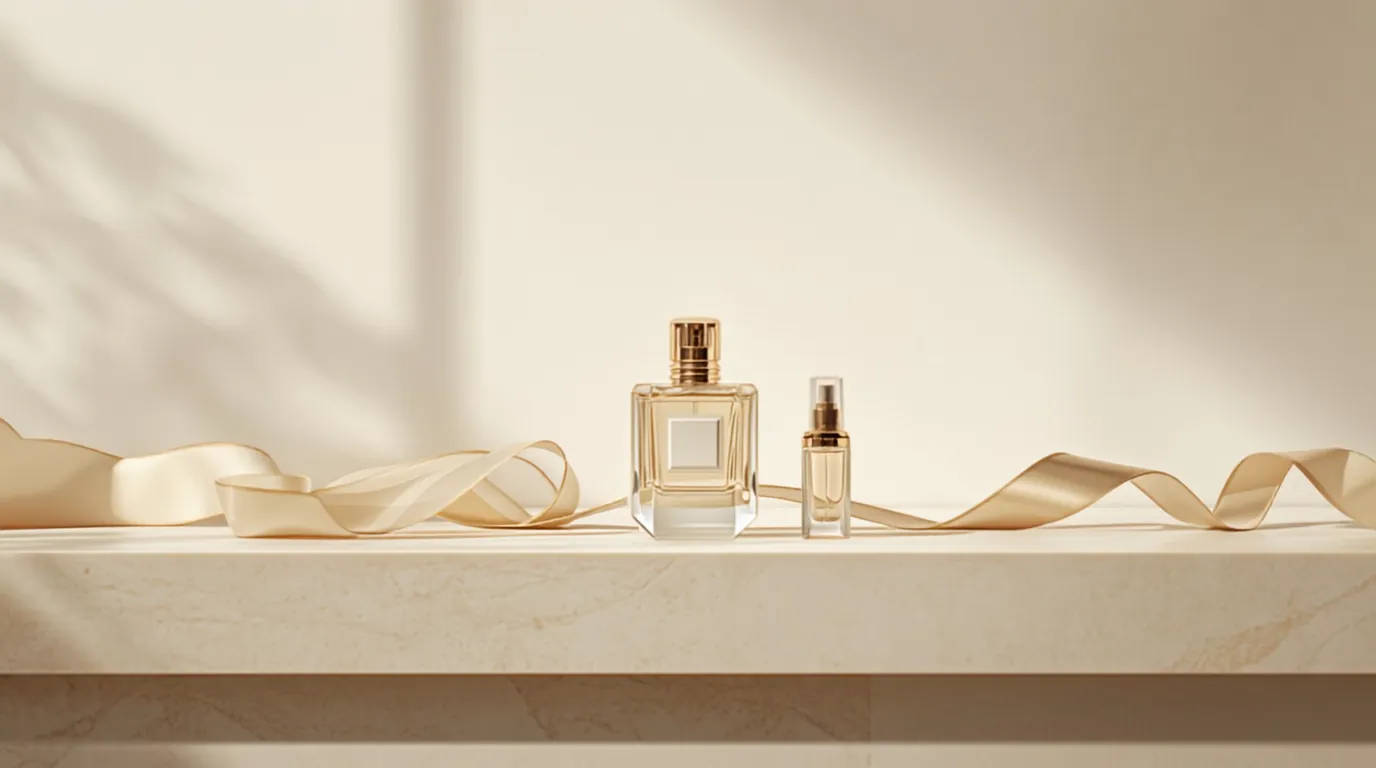
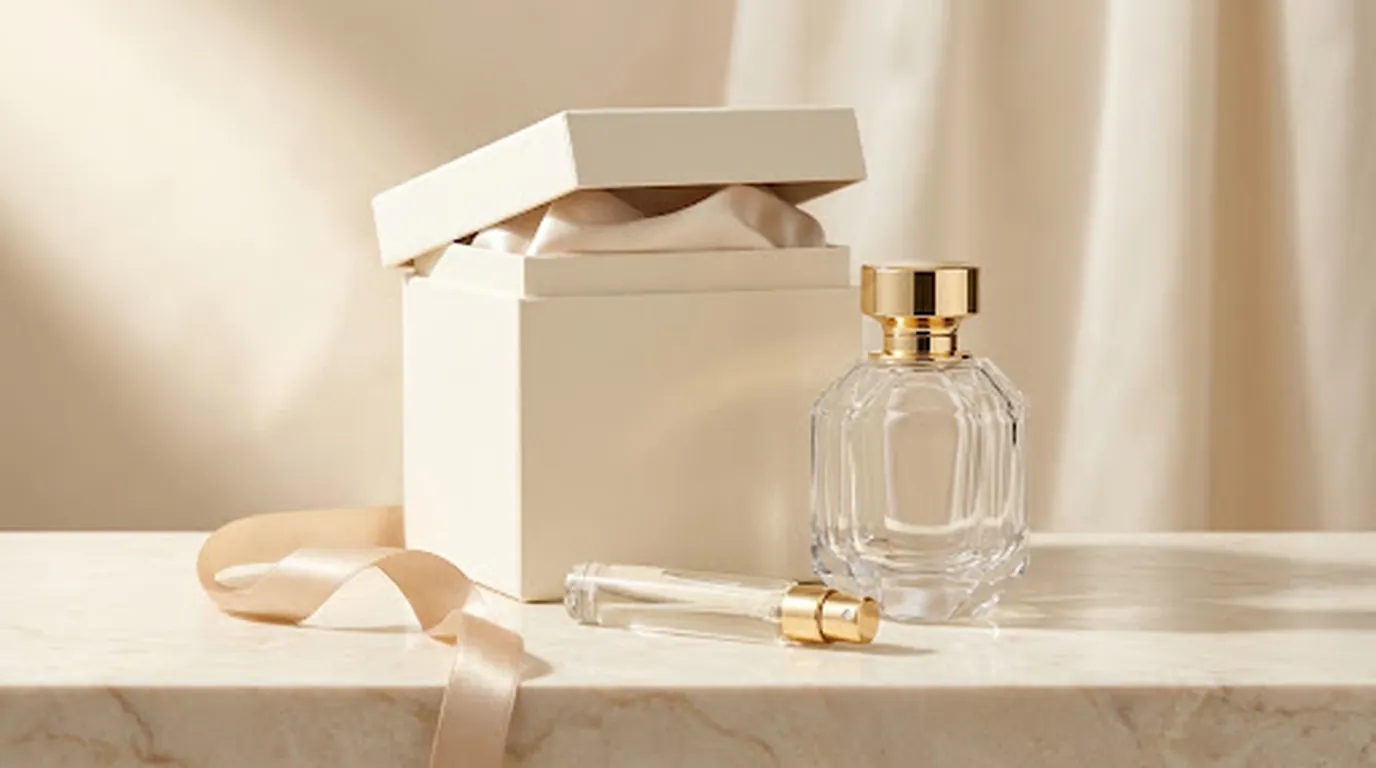
feat(beauty): 15 more World category tiles (24/45)
Completes the perfume (11/11) and personal-care (9/9) departments and starts
makeup (4/7). New: body-mist, perfume-spray, body-splash, fragrances,
oral-care, shaving, hygiene-sets, mens-care, baby-care, skin-hair-supplement,
intimate, face-makeup, eye-makeup, brow-makeup, lip-makeup.

Two candidates were generated per group and one picked, judged on: surviving
the grid's 4:3 centre crop, scale in frame, and palette discipline.

perfume-gift-set is replaced rather than added. Its first version spread the
box and flacon across the full 16:9 frame, and since WorldGrid renders these
at aspect-[4/3] with object-cover, the page cropped away 13% of each side and
the gift box with it — the tile rendered as an almost empty ledge. Regenerated
with the group pulled into the centre and nothing near the edges.

  assets/category-source/TILE-PROMPTS.md
    Records that crop failure and the criteria used to choose between
    candidates, so the next batch does not relearn it. Also corrects the
    output spec: Stitch returns 1376x768 natively, so tiles are stored at
    that size with no resampling.

Claude-Session: https://claude.ai/code/session_01NXYraC7kgt5k312aPZCPpN

diff --git a/lib/beauty/categoryImages.js b/lib/beauty/categoryImages.js
@@ -4,12 +4,27 @@
 // An uploaded beauty_categories.image_url always takes precedence over this.
 export const CATEGORY_IMG = {
   "air-freshener": "/beauty/categories/air-freshener.webp",
+  "baby-care": "/beauty/categories/baby-care.webp",
   "body-care": "/beauty/categories/body-care.webp",
+  "body-mist": "/beauty/categories/body-mist.webp",
+  "body-splash": "/beauty/categories/body-splash.webp",
+  "brow-makeup": "/beauty/categories/brow-makeup.webp",
+  "eye-makeup": "/beauty/categories/eye-makeup.webp",
   "face-care": "/beauty/categories/face-care.webp",
+  "face-makeup": "/beauty/categories/face-makeup.webp",
+  "fragrances": "/beauty/categories/fragrances.webp",
+  "hygiene-sets": "/beauty/categories/hygiene-sets.webp",
+  "intimate": "/beauty/categories/intimate.webp",
+  "lip-makeup": "/beauty/categories/lip-makeup.webp",
+  "mens-care": "/beauty/categories/mens-care.webp",
+  "oral-care": "/beauty/categories/oral-care.webp",
   "perfume-cologne": "/beauty/categories/perfume-cologne.webp",
   "perfume-gift-set": "/beauty/categories/perfume-gift-set.webp",
   "perfume-kids": "/beauty/categories/perfume-kids.webp",
   "perfume-men": "/beauty/categories/perfume-men.webp",
+  "perfume-spray": "/beauty/categories/perfume-spray.webp",
   "perfume-unisex": "/beauty/categories/perfume-unisex.webp",
   "perfume-women": "/beauty/categories/perfume-women.webp",
+  "shaving": "/beauty/categories/shaving.webp",
+  "skin-hair-supplement": "/beauty/categories/skin-hair-supplement.webp",
 };

diff --git a/assets/category-source/TILE-PROMPTS.md b/assets/category-source/TILE-PROMPTS.md
@@ -38,10 +38,30 @@ hence the shell below is verbatim, not a summary.
 
 ## Output format
 
-1600×900 export → cover-cropped and resized to **1376×768**, WebP quality 80
-(≈20–30 KB). That matches the two tiles the owner approved first. Tiles are
-displayed at `aspect-[4/3]` with `object-cover`, so **keep the subject
-centred** — roughly 25% is cropped off each side on the site.
+**1376×768**, WebP quality 80 (≈20–30 KB) — Stitch's `DESKTOP` screens come out
+at exactly that size, so no resampling is needed.
+
+Tiles are displayed at `aspect-[4/3]` with `object-cover`, so the page throws
+away **13% off each side**. Two things follow, and both were learned the hard
+way on `perfume-gift-set`, whose first version lost its gift box entirely and
+rendered as a near-empty frame:
+
+- Say **"grouped tightly in the CENTRE of the frame, filling most of the frame
+  height"** and **"nothing placed near the left or right edges"** in the
+  subject line. A generator left to itself spreads objects edge to edge.
+- Always check the tile the way the grid will actually crop it, not the way it
+  came out of the generator.
+
+## Choosing between candidates
+
+Generate two per group and pick one; more than two is wasted tokens. What
+decides it, in order:
+
+1. **Survives the 4:3 crop** — nothing important near an edge.
+2. **Scale** — objects should fill the frame. The common failure is a correct
+   but timid still life sitting small with dead headroom.
+3. **Palette discipline** — anything drifting gold-heavy or cool breaks the
+   set. Ivory first, gold as accent.
 
 ## The shell
 
@@ -81,7 +101,7 @@ Status: ✅ = tile committed · ⬜ = still to generate.
 - ✅ `perfume-unisex` — four sculptural unbranded unisex fragrance bottles in a row: a matte ivory ceramic-look bottle with a flat stone cap, a clear glass cube with a slim gold stem cap, a frosted cylinder with a rounded champagne cap, and a smooth pebble-shaped bottle in warm sand glass
 - ✅ `perfume-kids` — four small unbranded children's fragrance bottles in a row: a small squat rounded bottle with a domed cream cap, a tiny teardrop bottle in pale peach glass, a small cylindrical spray with a soft gold collar, and a little rounded flask with a smooth ivory stopper. Delicate and playful in scale but elegant and grown-up in finish — no cartoons, no characters, no decoration
 - ✅ `air-freshener` — four unbranded home fragrance vessels in a row: a ribbed clear glass reed diffuser with a bundle of natural rattan reeds fanning out, a tall cylindrical room spray with a brushed gold collar, a squat frosted diffuser bottle with a wooden neck, and a smooth ivory ceramic vessel
-- ✅ `perfume-gift-set` — an unbranded fragrance gift presentation: a rigid ivory gift box with its lid resting ajar against it and pale silk lining just visible inside, a faceted crystal flacon with a gold cap standing beside the box, a smaller matching travel spray, and a loose champagne satin ribbon curling across the marble
+- ✅ `perfume-gift-set` — an unbranded fragrance gift presentation grouped tightly together in the CENTRE of the frame, filling most of the frame height: a rigid ivory gift box standing upright with its lid resting ajar against it and pale silk lining visible inside, a large faceted crystal flacon with a polished gold cap standing immediately beside the box, a smaller matching travel spray in front, and a champagne satin ribbon curling across the marble between them. The objects are large in frame and touch each other; nothing is placed near the left or right edges
 - ⬜ `body-mist` — four tall slim unbranded body-mist bottles in a row: larger volume spray bottles in frosted pale-cream, pale peach and clear glass with fine-mist caps in matte ivory and soft gold, one with a slender pump collar
 - ⬜ `perfume-spray` — four unbranded perfume atomisers in a row: a small purse atomiser in polished gold, a refillable travel spray in brushed champagne metal, a tall clear glass pump spray with a gold collar, and a vintage-style bulb atomiser with a silk tassel and a soft ivory bulb
 - ⬜ `body-splash` — four large unbranded body-splash bottles in a row: wide cylindrical clear glass bottles with broad screw caps in ivory and brushed gold, one with pale golden liquid inside, one frosted, generous casual proportions rather than fine-fragrance proportions
